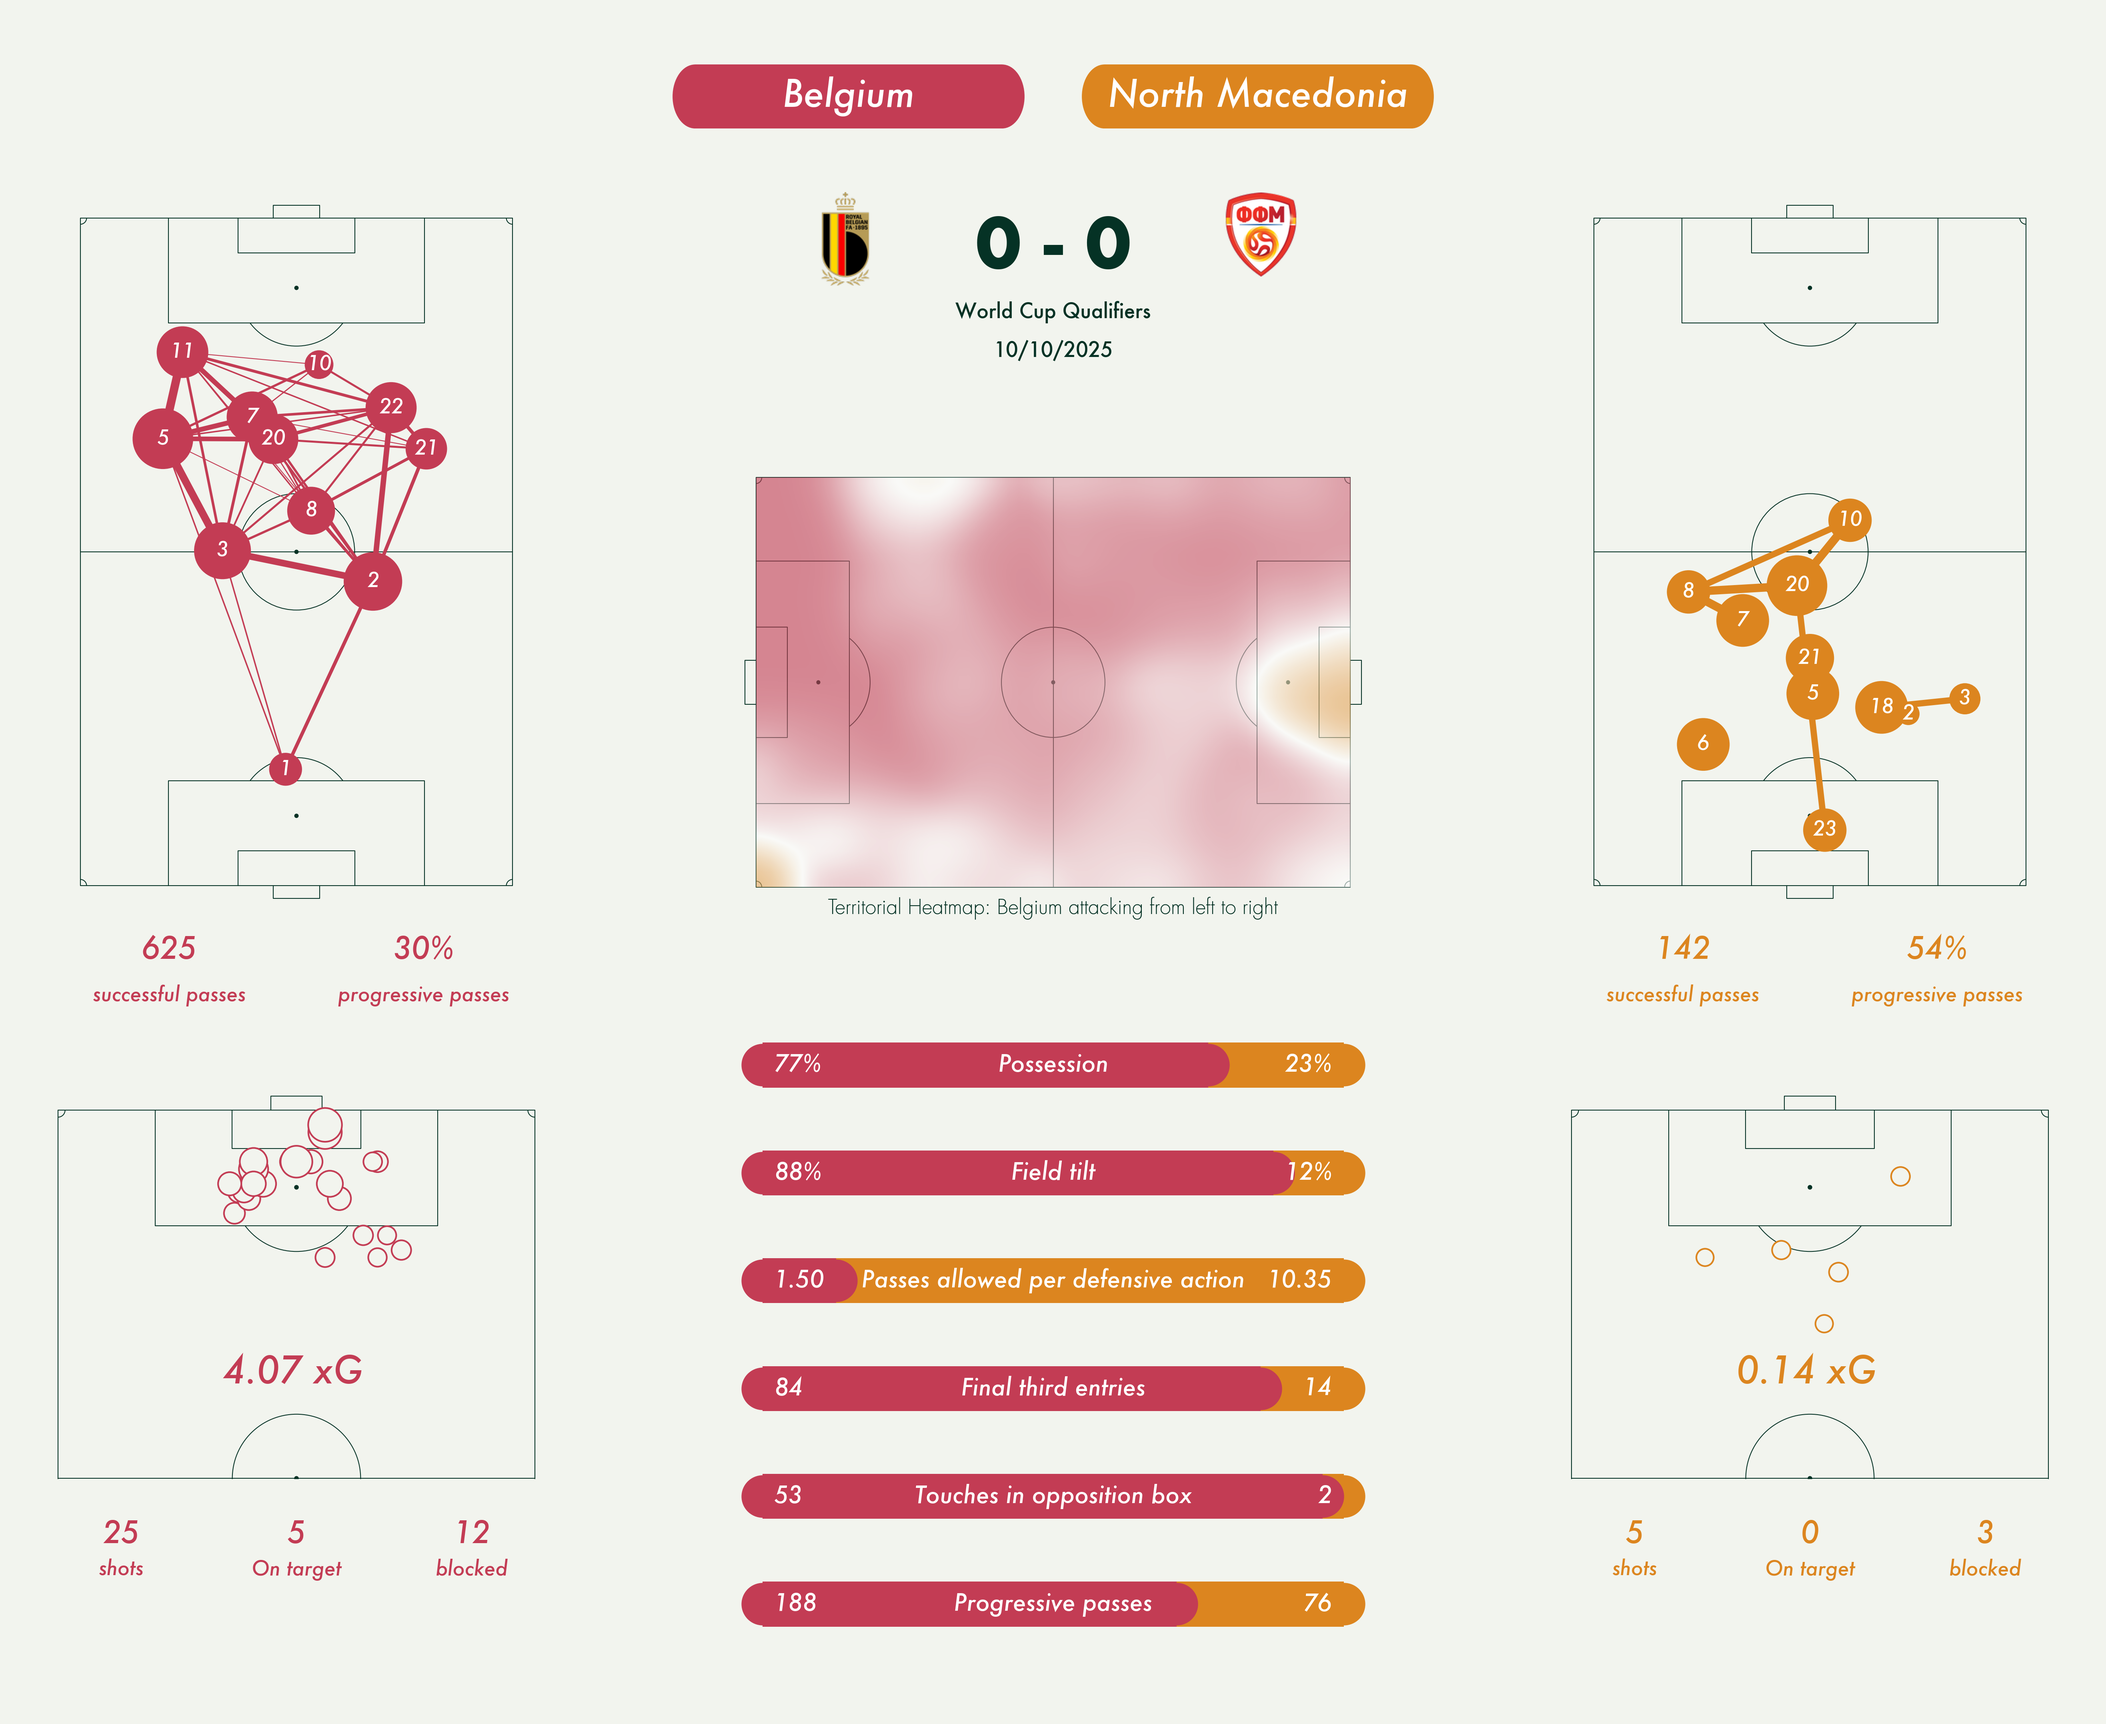
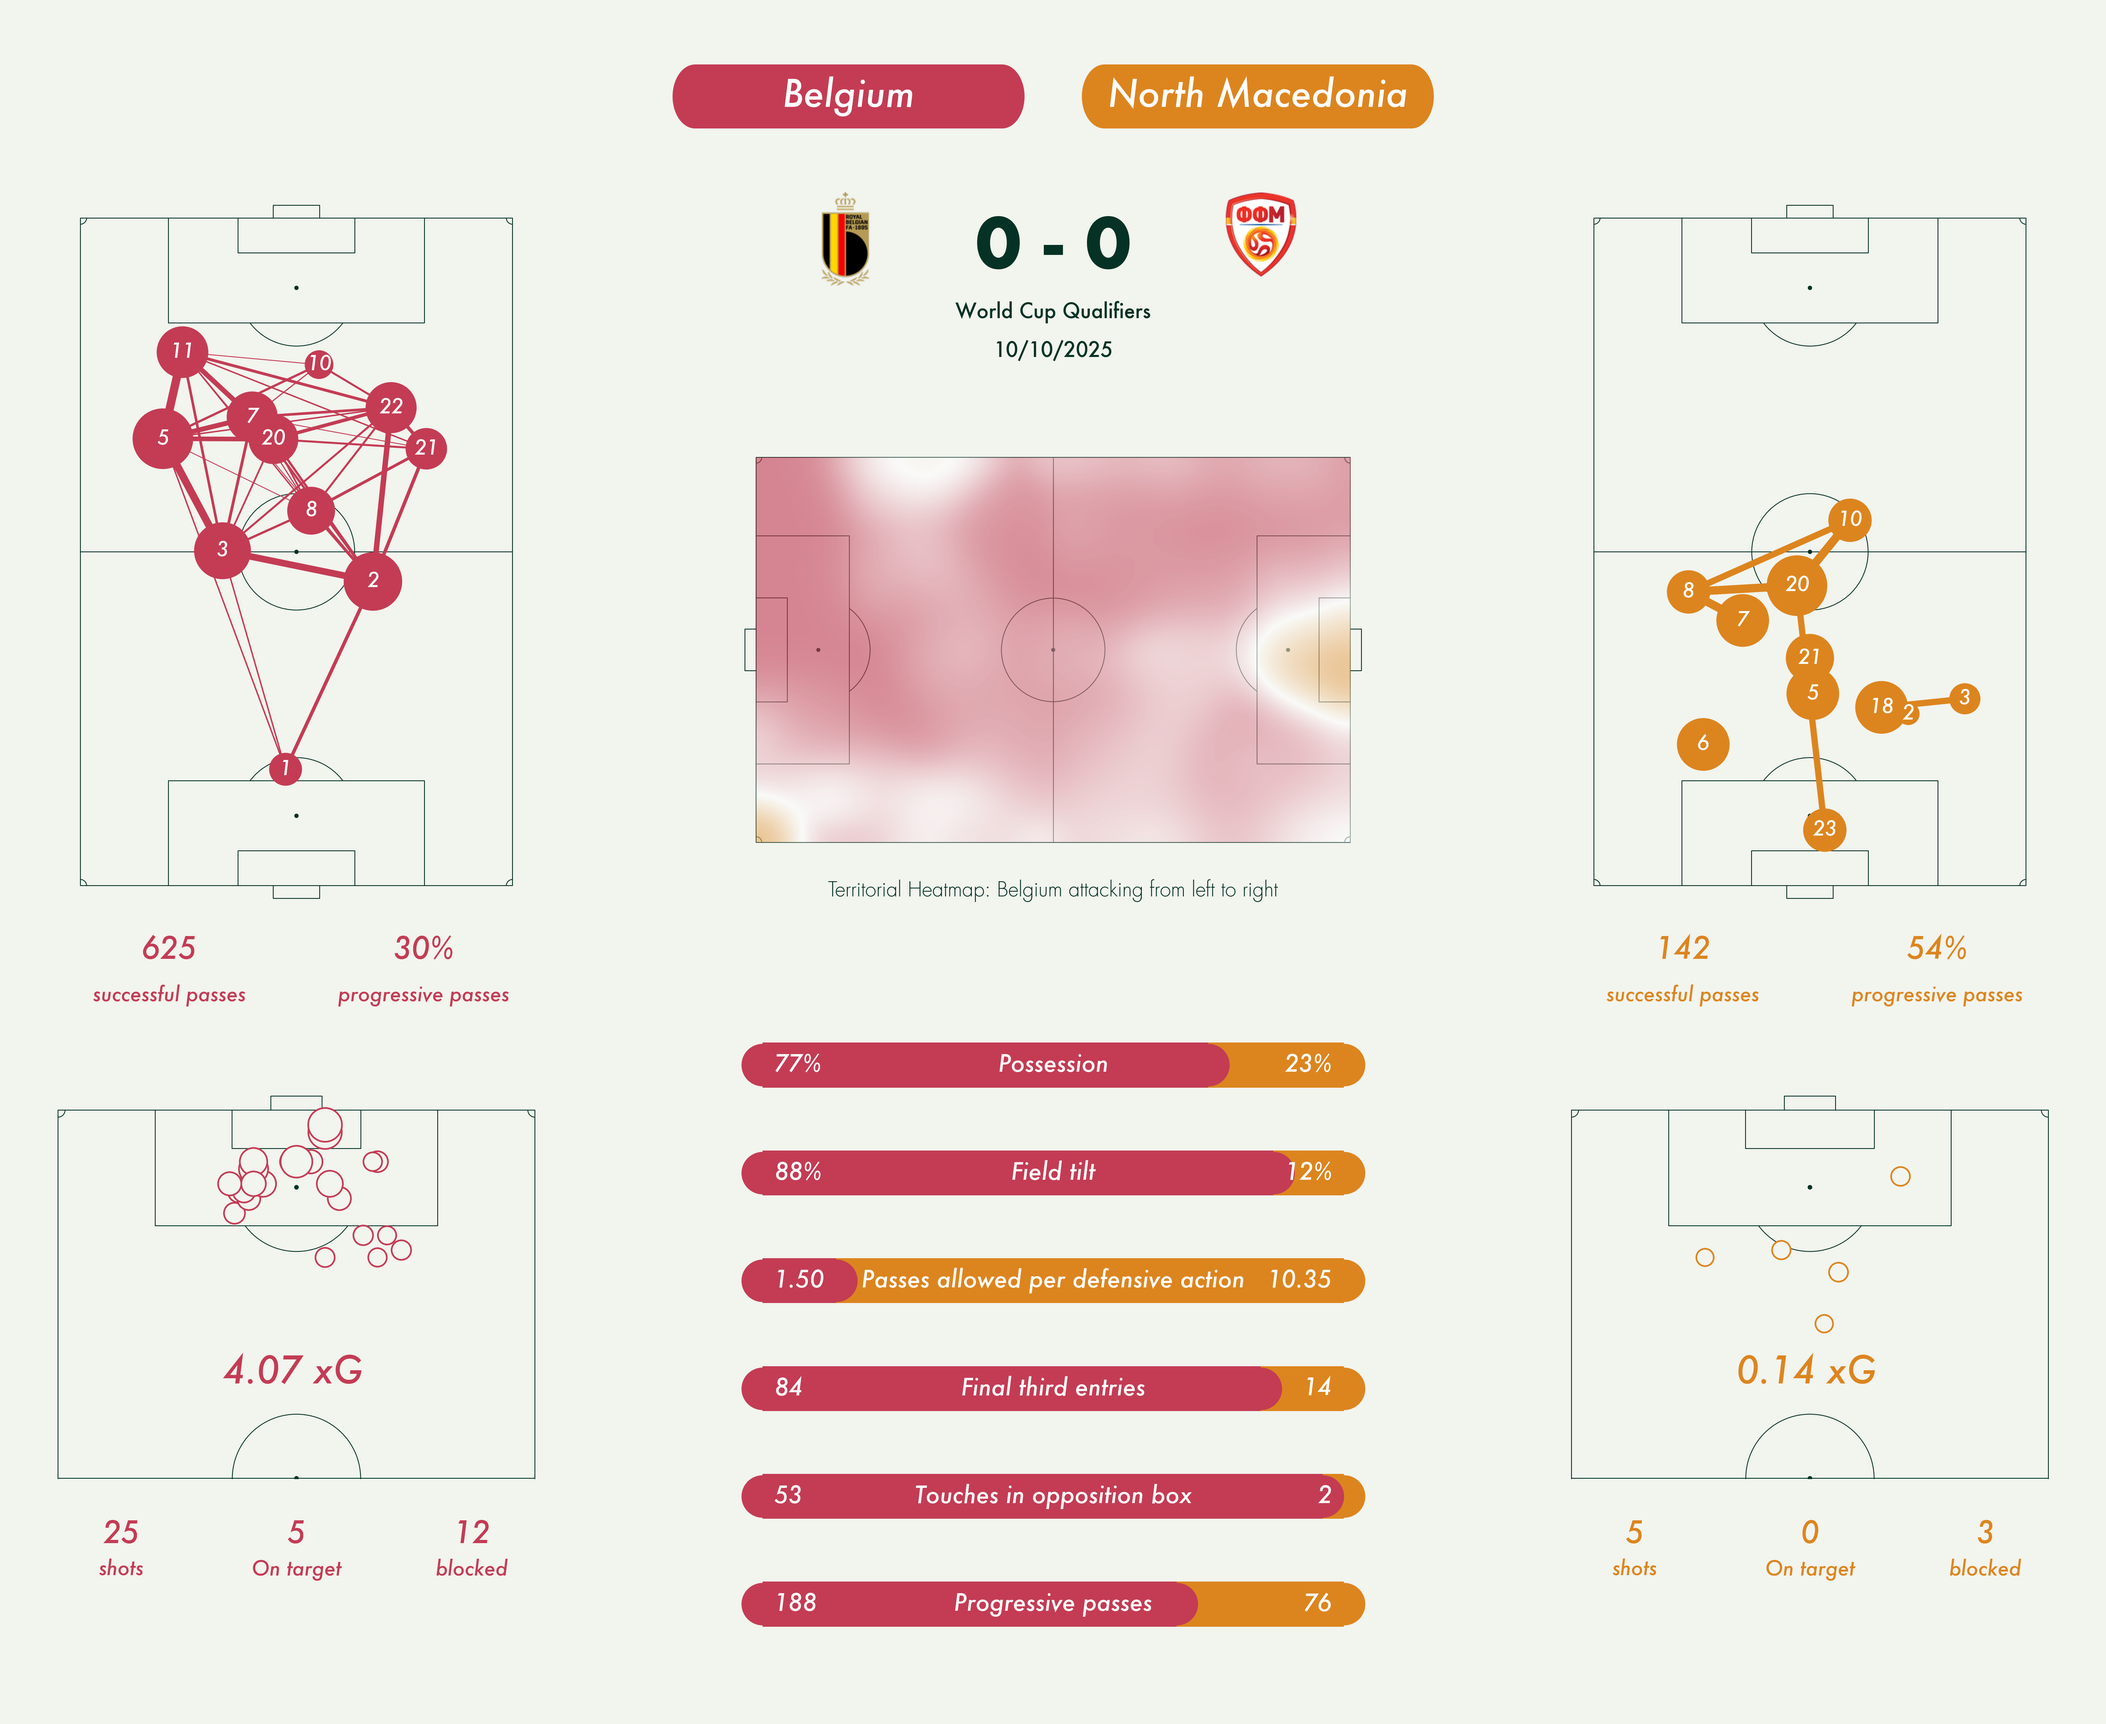
refactor: move territorial heatmap up

diff --git a/src/viz/game_summary.py b/src/viz/game_summary.py
@@ -331,6 +331,11 @@ def plot_territorial_heatmap(ax, events_df, team1_name, team2_name, team1_color,
         corner_arcs=styling.pitch['corner_arcs'],
     )
     pitch.draw(ax=ax)
+
+    # Manually reposition the axes to move pitch up and create space below
+    pos = ax.get_position()  # Get current position [left, bottom, width, height]
+    # Move the axes up by reducing bottom and decreasing height
+    ax.set_position([pos.x0, pos.y0 + 0.015, pos.width, pos.height])
     
     # Filter events with location data
     df_team1, df_team2 = get_territorial_heatmap_data(events_df, team1_name, team2_name)
@@ -393,7 +398,7 @@ def plot_territorial_heatmap(ax, events_df, team1_name, team2_name, team1_color,
         interpolation='bilinear' 
     )
 
-    ax.text(0, -37.5, 
+    ax.text(0, -42.5, 
         f"Territorial Heatmap: {team1_name} attacking from left to right", 
         fontsize=styling.typo["sizes"]["p"], 
         color=styling.colors["primary"], 
